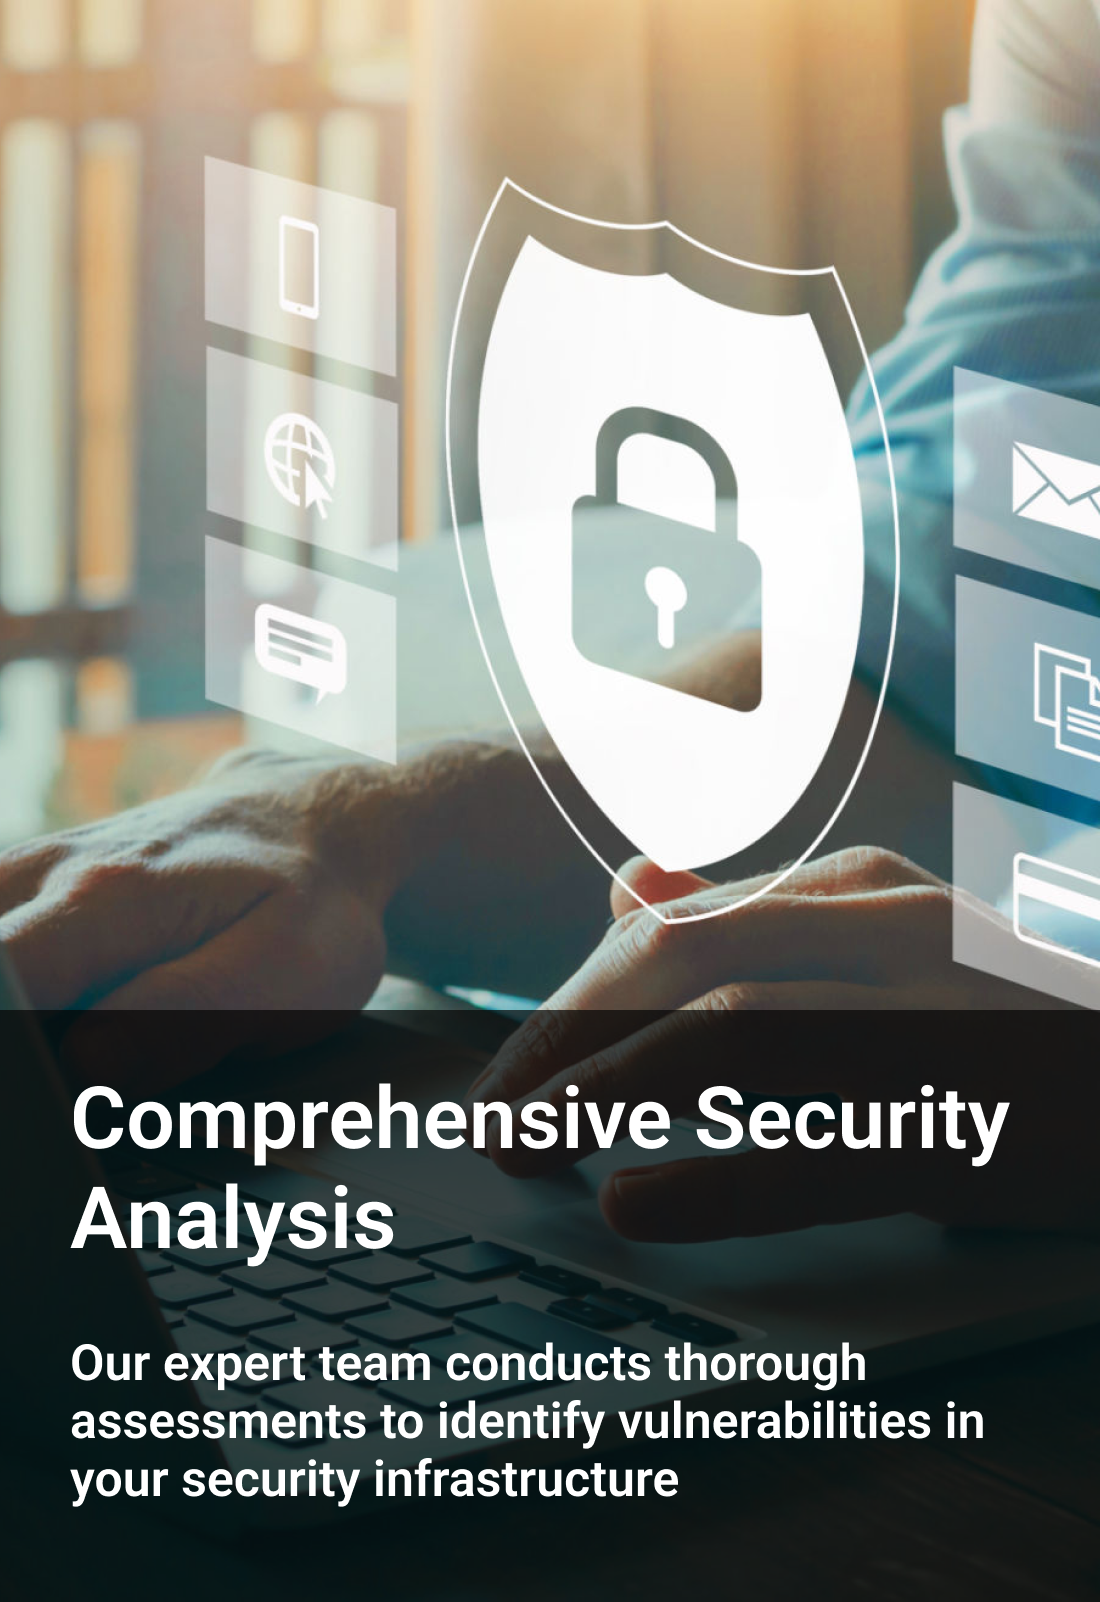
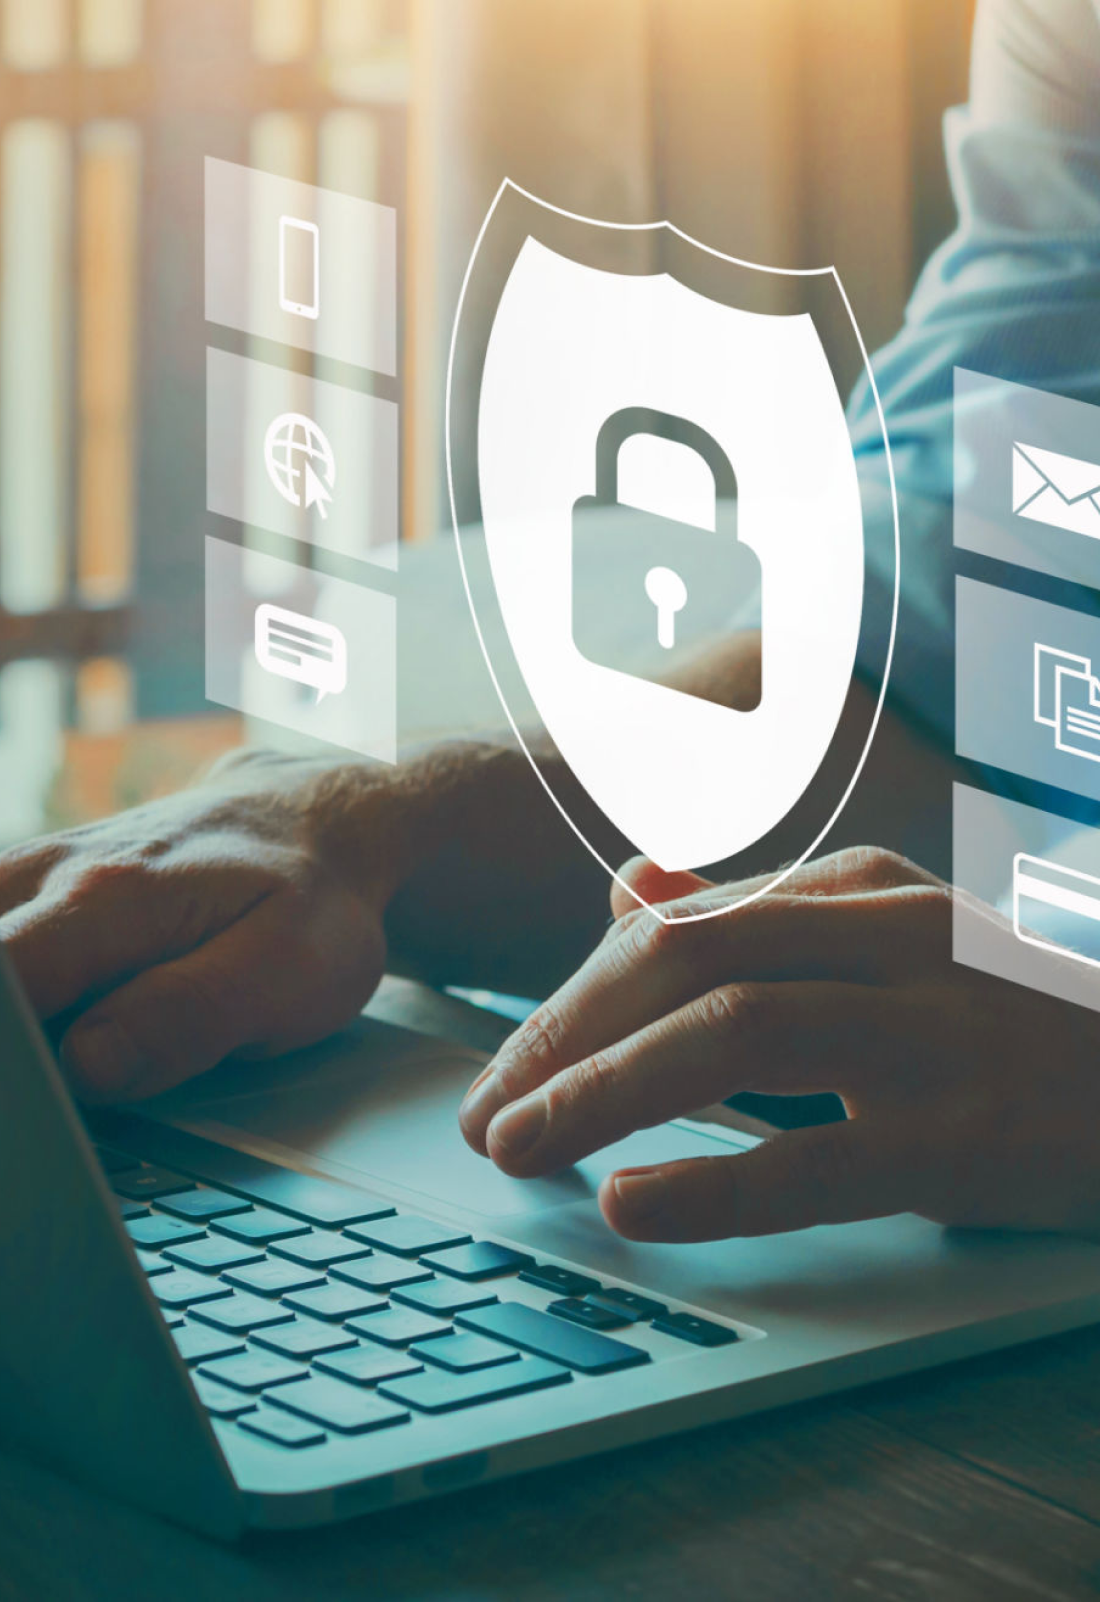
fix image bugs

diff --git a/src/config/i18n.js b/src/config/i18n.js
@@ -19,6 +19,7 @@ i18n.use(initReactI18next).init({
                 footer: {
                     title: 'Trusted Security. Proven Reliability',
                     name: 'SECURITY EVENTMANAGEMENT CREW',
+                    desc: 'Protect what matters with expert, tailored solutions. Our skilled team is here to safeguard your future — professionally and personally. Partner with us for peace of mind.'
                 },
                 home: {
                     title: 'Secure Your Business with Top Talent',
@@ -29,6 +30,20 @@ i18n.use(initReactI18next).init({
                     solutions: 'Individual solutions',
                     sss: {
                         title: 'Security Stuffing Solutions',
+                        cards: {
+                            first: {
+                                title: 'Comprehensive Security Analysis',
+                                description: 'Our expert team conducts thorough assessments to identify vulnerabilities in your security infrastructure'
+                            },
+                            second: {
+                                title: 'Custom Security Staffing Solutions',
+                                description: 'We provide specialized security professionals tailored to meet your specific business needs and challenges'
+                            },
+                            third: {
+                                title: 'Ongoing Security Support Services',
+                                description: 'Benefit from continuous support to ensure your security systems remain robust and up-to-date'
+                            }
+                        },
                         second_title_1: 'Security & Protection!',
                         second_title_2: 'We meet your needs!',
                         subtitle: 'Whether you’re a business, a private client, or organizing an event — we provide tailored security solutions designed to meet the highest standards. Our expert team and cutting-edge technology ensure you’re protected 24/7. Reach out today for a free consultation — no obligations. Let’s build the perfect security plan together.',
@@ -162,7 +177,8 @@ i18n.use(initReactI18next).init({
                         },
                         submitButton: 'Submit'
                     }
-                }
+                },
+                contactButton: 'Contact us'
             }
         },
         de: {
@@ -175,6 +191,7 @@ i18n.use(initReactI18next).init({
                 footer: {
                     title: 'Vertraute Sicherheit. Bewährte Zuverlässigkeit',
                     name: 'SECURITY EVENTMANAGEMENT CREW',
+                    desc: 'Schütze, was dir wichtig ist, mit fachkundigen, maßgeschneiderten Lösungen. Unser erfahrenes Team ist hier, um deine Zukunft – professionell und persönlich – zu sichern. Arbeite mit uns zusammen für sorgenfreie Sicherheit'
                 },
                 home: {
                     title: 'Sichern Sie Ihr Unternehmen mit den besten Fachkräften',
@@ -185,6 +202,20 @@ i18n.use(initReactI18next).init({
                     solutions: 'Individuelle Lösungen',
                     sss: {
                         title: 'Lösungen für die Personalausstattung im Sicherheitsdienst',
+                        cards: {
+                            first: {
+                                title: 'Umfassende Sicherheitsanalyse',
+                                description: 'Unser Expertenteam führt gründliche Bewertungen durch, um Schwachstellen in Ihrer Sicherheitsinfrastruktur zu identifizieren'
+                            },
+                            second: {
+                                title: 'Maßgeschneiderte Sicherheitslösungen',
+                                description: 'Wir bieten spezialisierte Sicherheitskräfte, die genau auf Ihre Geschäftsanforderungen und Herausforderungen abgestimmt sind'
+                            },
+                            third: {
+                                title: 'Fortlaufende Sicherheitsunterstützungsdienste',
+                                description: 'Profitieren Sie von kontinuierlicher Unterstützung, um sicherzustellen, dass Ihre Sicherheitssysteme robust und aktuell bleiben'
+                            }
+                        },
                         second_title_1: 'Sicherheit & Schutz!',
                         second_title_2: 'Wir erfüllen Ihre Anforderungen!',
                         subtitle: 'Ob Unternehmen, Privatkunde oder Veranstalter – wir bieten maßgeschneiderte Sicherheitslösungen nach höchsten Standards. Unser Expertenteam und modernste Technologie sorgen rund um die Uhr für Ihren Schutz. Kontaktieren Sie uns noch heute für eine unverbindliche und kostenlose Beratung. Gemeinsam entwickeln wir das ideale Sicherheitskonzept für Sie.',
@@ -319,7 +350,8 @@ i18n.use(initReactI18next).init({
                         },
                         submitButton: 'Absenden'
                     }
-                }
+                },
+                contactButton: 'Kontaktieren Sie uns'
             }
         }
     }

diff --git a/src/pages/Home.jsx b/src/pages/Home.jsx
@@ -61,7 +61,6 @@ function Home() {
                 ease: "power3.out"
             }, "-=0.3");
 
-        // Анімація статистики
         gsap.fromTo(statisticsRef.current?.children, {
             opacity: 0,
             y: 60,
@@ -81,7 +80,6 @@ function Home() {
             }
         });
 
-        // Анімація секції Security Stuffing Solutions
         gsap.fromTo(securitySectionRef.current?.querySelector('span'), {
             opacity: 0,
             y: 40
@@ -97,7 +95,6 @@ function Home() {
             }
         });
 
-        // Анімація карток
         gsap.fromTo(infoCardsRef.current?.children, {
             opacity: 0,
             y: 80,
@@ -116,7 +113,6 @@ function Home() {
             }
         });
 
-        // Анімація блоку під картками
         gsap.fromTo(underInfoRef.current?.querySelector('img'), {
             opacity: 0,
             x: -100,
@@ -149,7 +145,6 @@ function Home() {
             }
         });
 
-        // Анімація заголовка сервісів
         gsap.fromTo(servicesRef.current?.querySelector('h2'), {
             opacity: 0,
             y: 40
@@ -181,7 +176,6 @@ function Home() {
             }
         });
 
-        // Анімація фонових фігур
         figuresRef.current.forEach((figure, index) => {
             if (figure) {
                 gsap.fromTo(figure, {
@@ -203,7 +197,6 @@ function Home() {
             }
         });
 
-        // Анімація карток сервісів
         serviceCardsRef.current.forEach((card, index) => {
             if (card) {
                 const isLeft = index % 2 === 1;
@@ -226,7 +219,6 @@ function Home() {
             }
         });
 
-        // Паралакс ефект для фонових фігур
         figuresRef.current.forEach((figure) => {
             if (figure) {
                 gsap.to(figure, {
@@ -242,7 +234,6 @@ function Home() {
             }
         });
 
-        // Cleanup
         return () => {
             ScrollTrigger.getAll().forEach(trigger => trigger.kill());
         };
@@ -282,18 +273,18 @@ function Home() {
 
             <section ref={securitySectionRef} className="relative bg-[#191717] px-6 md:px-16 pt-12 pb-5">
                 <div className="mb-8">
-                    <span className="text-white text-3xl font-semibold w-[100%] flex justify-center">
+                    <span className="text-white text-3xl font-semibold w-[100%] flex justify-center text-center">
                         {t('home.sss.title')}
                     </span>
                 </div>
 
                 <div ref={infoCardsRef} className="flex sm:flex-row flex-col items-center justify-center 2xl:gap-45 xl:gap-35 lg:gap-25 md:gap-7 gap-3">
-                    <InfoCardHome image={firstInfoCardHome} />
-                    <InfoCardHome image={secondInfoCardHome} />
-                    <InfoCardHome image={thirdInfoCardHome} />
+                    <InfoCardHome image={firstInfoCardHome} title={t('home.sss.cards.first.title')} desc={t('home.sss.cards.first.description')} />
+                    <InfoCardHome image={secondInfoCardHome} title={t('home.sss.cards.second.title')} desc={t('home.sss.cards.second.description')} />
+                    <InfoCardHome image={thirdInfoCardHome} title={t('home.sss.cards.third.title')} desc={t('home.sss.cards.third.description')} />
                 </div>
 
-                <div ref={underInfoRef} className="flex md:flex-row flex-col items-center justify-around text-white">
+                <div ref={underInfoRef} className="flex md:flex-row flex-col items-center justify-around text-white mt-10">
                     <img src={under_info_cards_image} alt="" className="w-80 rounded-md" />
                     <div className="info-text w-[80%] md:w-[40%] flex flex-col justify-center items-center md:items-start">
                         <h2 className="text-2xl font-bold mb-2 text-center md:mt-0 mt-4 leading-tight">
@@ -305,7 +296,7 @@ function Home() {
                         </span>
                         <div className="flex items-center gap-2 mt-4">
                             <img src={phone} alt="Phone" className="w-5" />
-                            <span className="text-[#45ACB7] text-sm">+43 676 542 24 57</span>
+                            <span className="text-[#45ACB7] text-sm"><a href="tel:+43 676 542 24 57">+43 676 542 24 57</a></span>
                         </div>
                         <div className="mt-4">
                             <Button color="#FFFFFF" text="black" />

diff --git a/src/layouts/Footer.jsx b/src/layouts/Footer.jsx
@@ -11,21 +11,23 @@ import {
 import React from "react";
 import {Button} from "../shared";
 import {Link} from "react-router-dom";
+import {useTranslation} from "react-i18next";
 
 function Footer() {
+    const { t } = useTranslation();
+
     return (
         <footer className="bg-[#191717] text-white w-[100%]">
             <section className="relative">
                 <img src={footer_image} alt="" className="brightness-20 h-80 object-cover z-0 w-full"/>
                 <div
                     className="absolute inset-0 flex flex-col items-center justify-center text-center gap-2 z-10 px-4 py-8">
-                    <p className="text-base md:text-lg">Trusted Security. Proven Reliability</p>
+                    <p className="text-base md:text-lg">{t('footer.title')}</p>
                     <p className="text-lg md:text-xl font-bold tracking-wide text-center md:mb-4 mb-7">
-                        SECURITY EVENTMANAGEMENT CREW
+                        {t('footer.name')}
                     </p>
                     <p className="text-sm md:text-base max-w-[90%] lg:max-w-[60%] md:block hidden mb-4">
-                        Protect what matters with expert, tailored solutions. Our skilled team is here to safeguard your
-                        future — professionally and personally. Partner with us for peace of mind.
+                        {t('footer.desc')}
                     </p>
                     <div>
                         <Link to="contact">
@@ -41,7 +43,7 @@ function Footer() {
                 <ul className="list-none flex flex-col gap-3 text-sm md:text-base">
                     <li className="flex items-center gap-2">
                         <img src={phone} alt="Phone" className="w-5 md:w-6"/>
-                        <span className="text-[#45ACB7]">+43 676 542 24 57</span>
+                        <span className="text-[#45ACB7]"><a href="tel:+43 676 542 24 57">+43 676 542 24 57</a></span>
                     </li>
                     <li className="flex items-center gap-2">
                         <img src={location} alt="Location" className="w-5 md:w-6"/>
@@ -49,7 +51,7 @@ function Footer() {
                     </li>
                     <li className="flex items-center gap-2">
                         <img src={mail} alt="Email" className="w-5 md:w-6"/>
-                        <span className="text-[#45ACB7]">office@sec-crew.at</span>
+                        <span className="text-[#45ACB7]"><a href="mailto:office@sec-crew.at">office@sec-crew.at</a></span>
                     </li>
                 </ul>
 
@@ -57,7 +59,12 @@ function Footer() {
                     <a href="">
                         <img src={instagram} alt="Instagram" className="w-8 md:w-10"/>
                     </a>
-                    <a href="">
+                    <a
+                        href="https://wa.me/436765422457"
+                        target="_blank"
+                        rel="noopener noreferrer"
+                        className="text-green-500 hover:underline"
+                    >
                         <img src={whatsapp} alt="WhatsApp" className="w-8 md:w-10"/>
                     </a>
                     <a href="">

diff --git a/src/Components/InfoCardHome.jsx b/src/Components/InfoCardHome.jsx
@@ -1,13 +1,19 @@
 import React from 'react';
 
-function InfoCardHome({ image }) {
+function InfoCardHome({image, title, desc}) {
     return (
-        <div className="w-60 h-100 overflow-hidden">
+        <div className="relative w-60 h-96 overflow-hidden rounded-lg">
             <img
                 src={image}
                 alt="Card image"
-                className="w-60 h-auto rounded-md"
+                className="w-full h-full object-cover"
             />
+            <div
+                className="absolute inset-0 bg-gradient-to-b from-transparent from-20% via-black/60 via-50% to-black"></div>
+            <div className="absolute bottom-0 left-0 right-0 p-4 text-white text-center">
+                <h3 className="text-xl font-bold mb-2">{title}</h3>
+                <span className="text-sm opacity-90">{desc}</span>
+            </div>
         </div>
     );
 }

diff --git a/src/shared/Button.jsx b/src/shared/Button.jsx
@@ -1,6 +1,8 @@
 import {useNavigate} from "react-router-dom";
+import {useTranslation} from "react-i18next";
 
 function Button({ color = '#45ACB7', text = 'white' }) {
+    const { t } = useTranslation();
     const navigate = useNavigate();
     let sizeStyle = 'p-2 text-md';
 
@@ -9,7 +11,7 @@ function Button({ color = '#45ACB7', text = 'white' }) {
             style={{ backgroundColor: color, color: text }}
             onClick={() => navigate('contact')}
             className={`rounded-md ${sizeStyle} cursor-pointer w-full`}>
-            Contact us
+            {t('contactButton')}
         </button>
     );
 }
